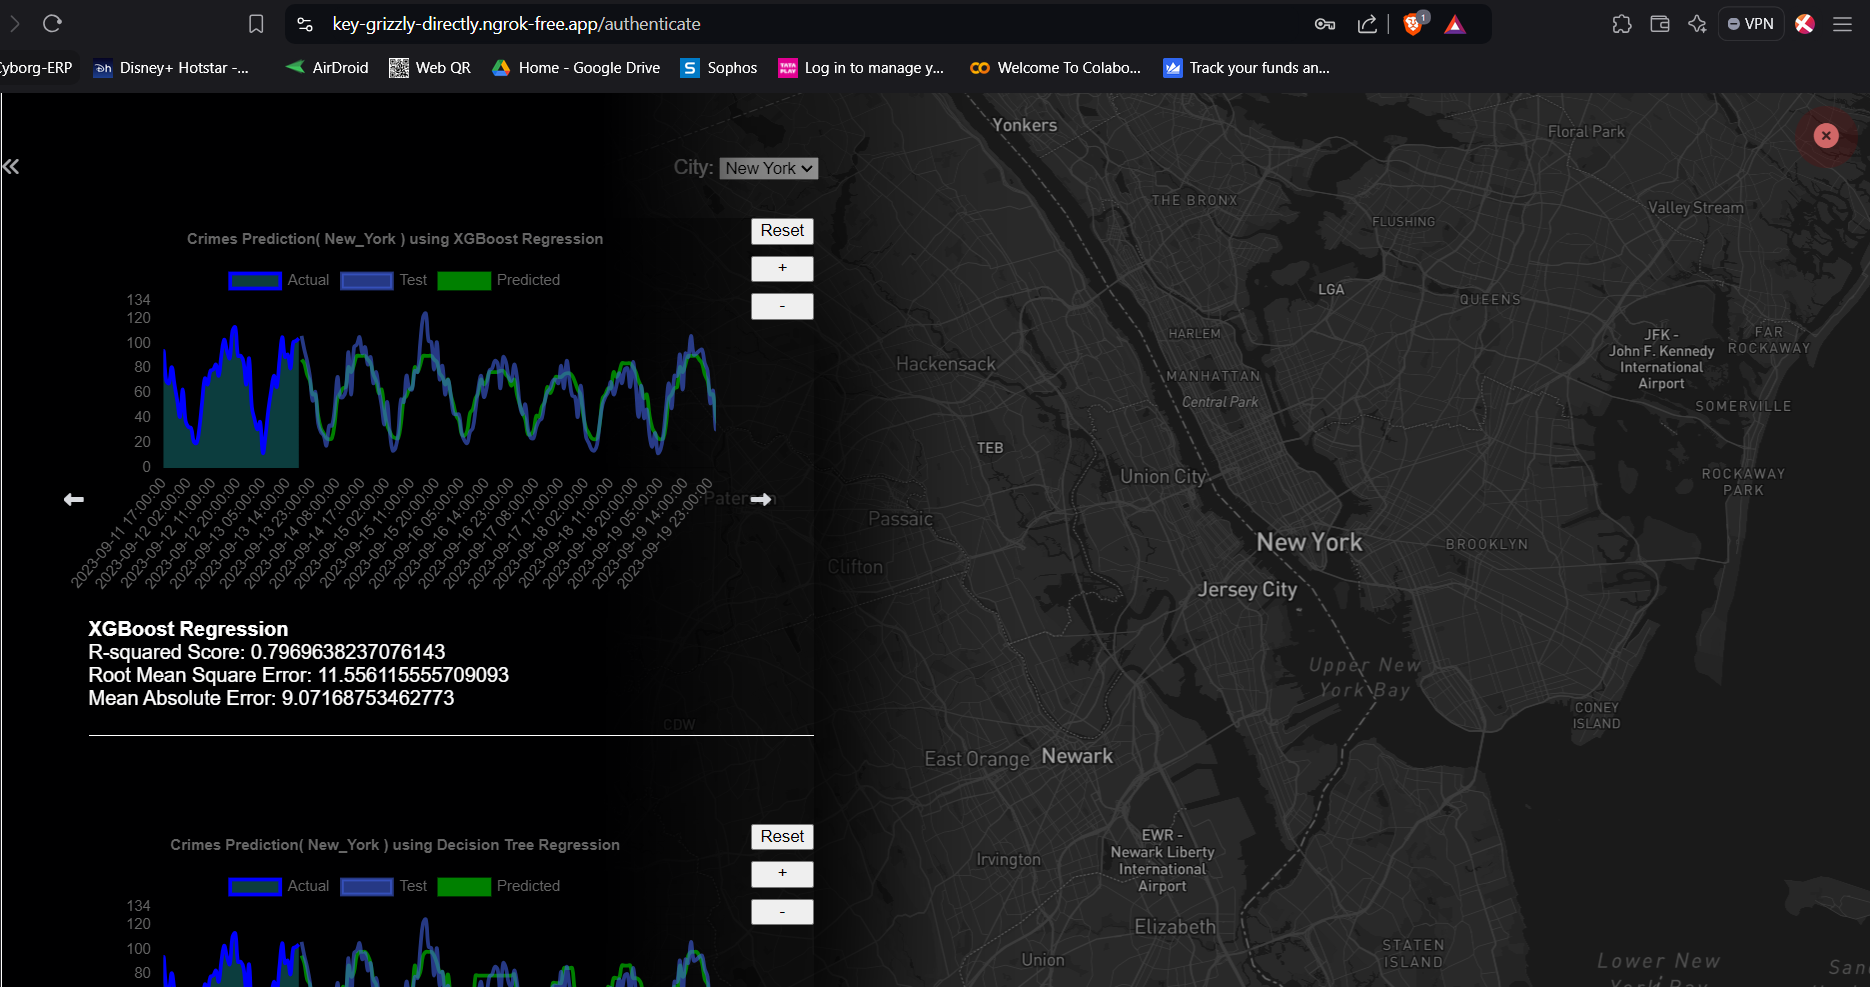
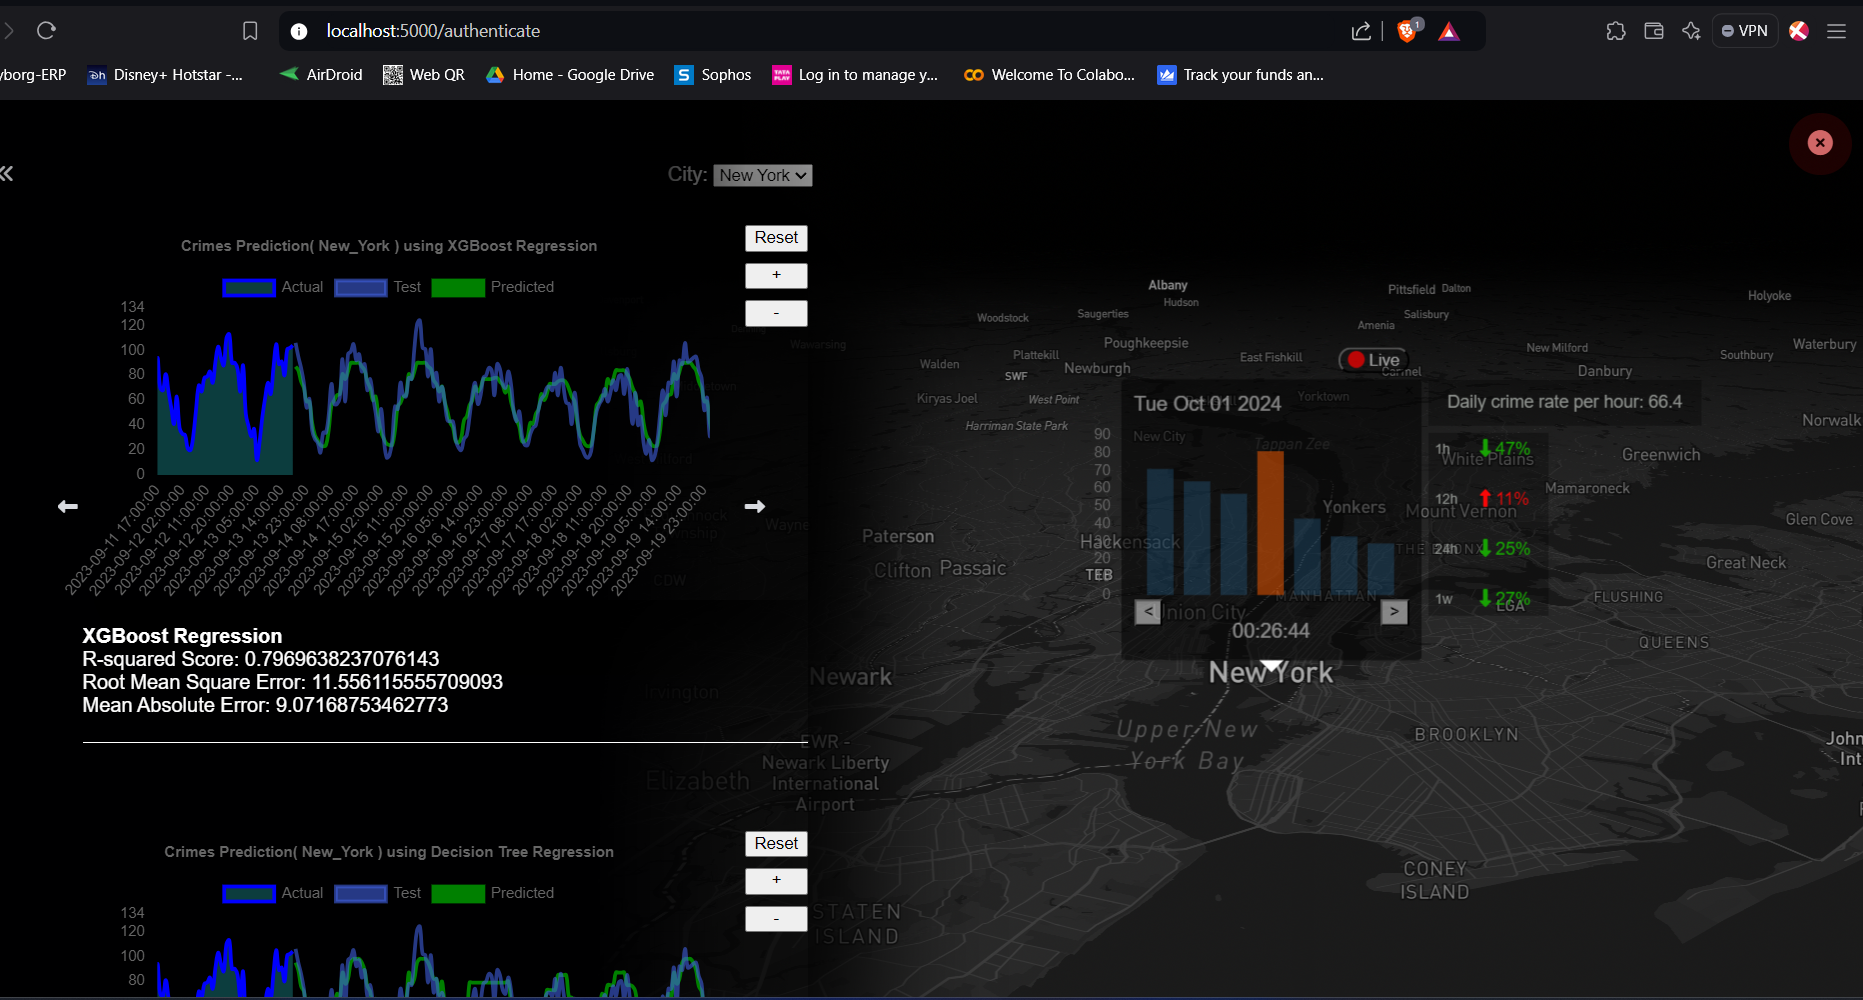
deploy

diff --git a/static/stats.js b/static/stats.js
@@ -273,13 +273,13 @@ async function pred_crimes(){
     body: crm
   })
   
-  var str = await response.text()
+  var str = await response.text();
   document.querySelector('#loading-page').style.display = 'none';
-  jsn = JSON.parse(str)
+  jsn = JSON.parse(str);
     
-  console.log(jsn)
+  console.log(jsn);
   
-  updateCharts(jsn, Charts[i], i, models[i])
+  updateCharts(jsn, Charts[i], i, models[i]);
   i++;
     }
 }
@@ -314,7 +314,18 @@ async function pred_current(){
 
       popup = new mapboxgl.Popup()
             .setLngLat(coordinates)
-            .setHTML(`<div id="prediction-graph"><div></div><div><canvas id="Pred-Chart" style="width:250px; height: 145px"></canvas></div><div></div><button><</button><button>></button><button><i class="fa-solid fa-circle fa-fade" style="color: #ff0000;"></i> Live</button></div>`)
+            .setHTML(`<div id="prediction-graph">
+                                   <div></div>
+                                   <div><canvas id="Pred-Chart" style="width:250px; height: 145px"></canvas></div>
+                                   <div></div>
+                                   <button><</button>
+                                   <button>></button>
+                                   <button><i class="fa-solid fa-circle fa-fade" style="color: #ff0000;"></i> Live</button>
+                                   <div>
+                                     <div></div>
+                                     <div></div>
+                                   </div>
+                      </div>`)
             .addTo(map);
       
       var charts = document.getElementById(`Pred-Chart`).getContext('2d');
@@ -325,9 +336,7 @@ async function pred_current(){
       var set_time = document.querySelector('#prediction-graph div:nth-child(3)');
       var set_date = document.querySelector('#prediction-graph div:nth-child(1)');
 
-    
       var ch_hr = NaN;
-
       var hr = new Date().getHours();
 
       if(hr<10)
@@ -344,7 +353,7 @@ async function pred_current(){
           set_time.innerHTML = new Date().toLocaleTimeString();
     
            hr = new Date().getHours();
-         if(hr<10)
+          if(hr<10)
             hr = String('0'+hr);
       
           if(hr != ch_hr)
@@ -352,6 +361,7 @@ async function pred_current(){
             ch_hr = hr;
             curr_index++;
             updatecurrentchart(myChart, data, curr_index, r);
+            update_crime_stats(data, curr_index);
           }
        
       }
@@ -373,7 +383,8 @@ async function pred_current(){
         curr_index--;
         r++;
         updatecurrentchart(myChart, data, curr_index, r);
-        x[2].innerHTML = '<i class="fa-solid fa-circle"></i> Live'
+        update_crime_stats(data, curr_index);
+        x[2].innerHTML = '<i class="fa-solid fa-circle"></i> Live';
       }
 
       x[1].onclick = ()=>{
@@ -389,6 +400,7 @@ async function pred_current(){
         curr_index++;
         r--;
         updatecurrentchart(myChart, data, curr_index, r);
+        update_crime_stats(data, curr_index);
         x[2].innerHTML = '<i class="fa-solid fa-circle"></i> Live';
       }
 
@@ -399,18 +411,20 @@ async function pred_current(){
         r=0;
         curr_index = `${new Date().toLocaleDateString().split('/').reverse().join('-')} ${hr}:00:00`;
         curr_index = data.dates.indexOf(curr_index);
-        
+
         updatecurrentchart(myChart, data, curr_index, r);
+        update_crime_stats(data, curr_index);
+
         x[2].innerHTML = '<i class="fa-solid fa-circle fa-fade" style="color: #ff0000;"></i> Live';
       }
 }
 
 function updatecurrentchart(myChart, data, index, r){
 
-var max = data.dates[index+2];
-var min = data.dates[index-2];
+var max = data.dates[index+3];
+var min = data.dates[index-3];
 
-var max_ht = Math.max(...data.predictions.slice(index-2, index+3))+10;
+var max_ht = Math.max(...data.predictions.slice(index-3, index+4))+10;
 
 const u_data = {
   labels: data.dates, // The labels for the X axis
@@ -420,11 +434,10 @@ const u_data = {
     // fill: false, // Whether to fill the area under the line
     borderColor: "green", // The color of the line
     backgroundColor: data.predictions.map((value, i) => 
-      (i === index+r) ? 'rgba(255, 0, 0, 0.5)' : 'rgba(54, 162, 235, 0.2)'
+      (i === index+r) ? 'rgba(255, 94, 0, 0.5)' : 'rgba(54, 162, 235, 0.2)'
     ), // The color of the bars
    
   }]
-  
 }
 const options = {
   responsive: true, // Whether to resize the chart according to the container size
@@ -471,7 +484,62 @@ myChart.update();
 
 }
 
+function update_crime_stats(data, index){
 
+  function perc_change(t){
+
+    var curr_val = data.predictions[index];
+    var ft_val = data.predictions[index+t];
+    return Math.round(((ft_val - curr_val)/curr_val) * 100);
+
+  }
+
+  function crime_rates(f){
+  
+    var sum=0, k=0;
+    if(f=='d'){
+     data.dates.forEach((e,i) => {
+       if(new Date(data.dates[index]).toLocaleDateString() == new Date(e).toLocaleDateString())
+        { 
+          sum += data.predictions[i];
+          k++;
+        }
+     })
+    }
+     
+    return (sum/24).toFixed(1);
+    
+  }
+  document.querySelector("#prediction-graph > div:nth-child(7) > div:nth-child(1)").innerHTML = `<div>Daily crime rate per hour: ${crime_rates('d')}</div>`;
+  
+  function set_color(val){
+    var color;
+    var dir;
+    if (val < 0)
+     { color = '#17a303'; 
+       dir = 'down';
+     }
+    else if(val > 0)
+     { color='#fa0707'; 
+      dir = 'up';
+     }
+    
+    return `<span style="color:${color}"><i class="fa-solid fa-${dir}-long"></i> `+Math.abs(val)+'%</span>';
+  }
+ 
+  var arr = [perc_change(1), perc_change(2), perc_change(3)];
+  var max_3h = Math.max(... arr);
+  var i = arr.indexOf(max_3h);
+  var max_3h = set_color(max_3h);
+ 
+  var per_12h = set_color(perc_change(12));
+  var per_24h = set_color(perc_change(24));
+  var per_week = set_color(perc_change(24*7));
+  
+  document.querySelector("#prediction-graph > div:nth-child(7) > div:nth-child(2)").innerHTML = `<div>${i+1}h</div><div>${max_3h}</div><div>12h</div><div>${per_12h}</div><div>24h</div><div>${per_24h}</div><div>1w</div><div>${per_week}</div>`;
+  
+
+}
 
 
 
@@ -487,8 +555,8 @@ function inputstatsdata(crimes, counts, perc)
   })
   str = str + '</table>';
   e.innerHTML = str;
-
 }
+
 function displaystats(){
    var y = document.querySelector('#hide');
    y.style.display = 'block';

diff --git a/static/mystyle.css b/static/mystyle.css
@@ -468,46 +468,82 @@ small{
   width: 100%;
   height: 200px;
 }
-#prediction-graph div:nth-child(1){
+#prediction-graph > div:nth-child(1){
   position: absolute;
   top: 0px;
   left: 0px;
   color: #ffffff7d;
 }
-#prediction-graph div:nth-child(2){
+#prediction-graph > div:nth-child(2){
   translate: -23px 
 }
 
-
-#prediction-graph div:nth-child(3){
+#prediction-graph > div:nth-child(3){
   position: absolute;
   bottom: 0px;
   color: #ffffff7d;
 }
-#prediction-graph button:nth-child(4){
+
+#prediction-graph > button:nth-child(4){
   position: absolute;
   top: 83%;
   left: 0px;
   background-color: #ffffff7d;
 }
-#prediction-graph button:nth-child(5){
+
+#prediction-graph > button:nth-child(5){
   position: absolute;
   top: 83%;
   right: 0px;
   background-color: #ffffff7d;
 }
 
-#prediction-graph button:nth-child(6){
+#prediction-graph > button:nth-child(6){
   position: absolute;
   top: -18%;
   right: 0px;
-  background: #0a0a0a00;
+  background: #ff580100;
   border-radius: 10px;
   color: #a3a3a3;
 }
+#prediction-graph > div:nth-child(7) {
+  position: absolute;
+  translate: 176px 2px;
+  display: inline-flex;
+  flex-direction: column;
+  gap:6px;
+  width: 101px;
+  height: 112%;
+}
+#prediction-graph > div:nth-child(7) > div{
+  color: #8f938f;
+}
+#prediction-graph > div:nth-child(7) > div:nth-child(1){
+   width: max-content;
+   background: #0000004d;
+   font-size:14px;
+   padding: 10px 15px;
+   display: grid;
+   
+}
+#prediction-graph > div:nth-child(7) > div:nth-child(2){
+   width: max-content;
+   background: #0000004d;
+   display: grid;
+   grid-template-columns: 30px 50px;
+   column-gap:6px;
+   row-gap:23px;
+   align-items:center;
+   font-size:11px;
+   padding: 5px;
+}
+#prediction-graph > div:nth-child(7) > div:nth-child(2) > div:nth-child(even){
+ font-size: 14px;
+}
+
 
 #hide_2{
-position: absolute;
+position:absolute;
 top:10px;
 right:0px;
 }

diff --git a/static/myscript.js b/static/myscript.js
@@ -112,7 +112,6 @@ map.on('load', function() {
         curve: 1,
         easing: (t) => t * (2 - t)
       });
-swa
       
  
     });
@@ -213,7 +212,7 @@ const geolocate = new mapboxgl.GeolocateControl({
 //   }
   
   function prediction(e)
-  { document.querySelector('#loading-page').style.display = 'table-cell';
+  { //document.querySelector('#loading-page').style.display = 'table-cell';
     // fetch(`static/GeoJson/New_York.json`).then(response => response.json()).then(data => {
     //   document.querySelector('#loading-page').style.display = 'none';
     //   loadclusters(data)
@@ -392,11 +391,11 @@ function loadclusters(geodata)
           loc = e.block; 
        popup = new mapboxgl.Popup()
         .setLngLat(event.features[0].geometry.coordinates)
-        .setHTML(`<strong>Location:</strong> ${loc}<br>
+        .setHTML(`<div style='color: white;'><strong>Location:</strong> ${loc}<br>
         <strong>Offense:</strong> ${e.ofns_desc}<br>
         <strong>Premises Type:</strong> ${e.prem_type}<br>
         <strong>Date:</strong> ${e.date}<br>
-        <strong>Time:</strong> ${e.time}<br>  `)
+        <strong>Time:</strong> ${e.time}<br> </div> `)
         .addTo(map);
         });
     
@@ -558,11 +557,11 @@ function loadheatmap(geodata)
           loc = e.block; 
        popup = new mapboxgl.Popup()
         .setLngLat(event.features[0].geometry.coordinates)
-        .setHTML(`<strong>Location:</strong> ${loc}<br>
+        .setHTML(`<div style='color: white'><strong>Location:</strong> ${loc}<br>
         <strong>Offense:</strong> ${e.ofns_desc}<br>
         <strong>Premises Type:</strong> ${e.prem_type}<br>
         <strong>Date:</strong> ${e.date}<br>
-        <strong>Time:</strong> ${e.time}<br>  `)
+        <strong>Time:</strong> ${e.time}<br></div>  `)
         .addTo(map);
         });
 

diff --git a/app.py b/app.py
@@ -15,19 +15,19 @@ db_cred = sys.argv
 app = Flask(__name__)
 
 def connect_database():
-    # connection = MySQLdb.connect(host=db_cred[1],  # connection using ssh tunnel
-    #                          port=int(db_cred[2]),
-    #                          user=db_cred[3],
-    #                          password=db_cred[4],
-    #                          db=db_cred[5],
-    #                          cursorclass=MySQLdb.cursors.DictCursor)
+    connection = MySQLdb.connect(host=db_cred[1],  # connection using ssh tunnel
+                             port=int(db_cred[2]),
+                             user=db_cred[3],
+                             password=db_cred[4],
+                             db=db_cred[5],
+                             cursorclass=MySQLdb.cursors.DictCursor)
 
-    connection = MySQLdb.connect(host='localhost',
-                                 port=3306,
-                                 user='root',
-                                 password='password',
-                                 db='mydb',
-                                 cursorclass=MySQLdb.cursors.DictCursor)
+    # connection = MySQLdb.connect(host='localhost',
+    #                              port=3306,
+    #                              user='root',
+    #                              password='password',
+    #                              db='mydb',
+    #                              cursorclass=MySQLdb.cursors.DictCursor)
 
     cursor = connection.cursor()
     return cursor, connection
